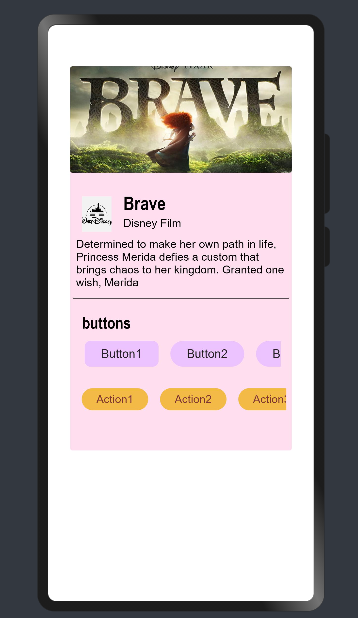
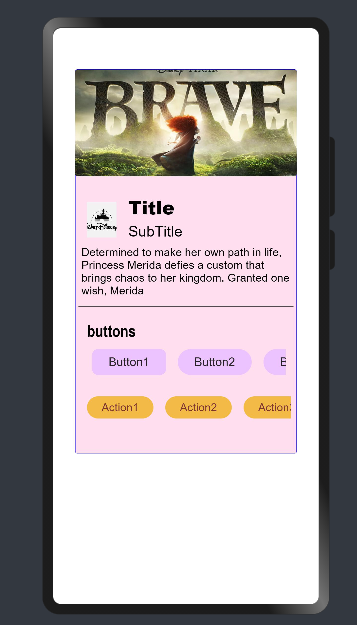
all card examples

diff --git a/README.md b/README.md
@@ -51,6 +51,9 @@ aboutToAppear(){
     this.model.setShadowRadius(40)
     this.model.setBorderRadius(3)
     this.model.setMediaIconPosition(MediaIconPosition.Top)
+    this.model.setSubTitleFontSize(20)
+    this.model.setTitleFontSize(25)
+    this.model.setTitleFontWeight(FontWeight.Bolder)
     this.model.setButtons([new button.Model('Button1',false, '#ff242222', '#ffecc2ff', 15, ButtonType.Normal, 35, 100),
                             new button.Model('Button2',false, '#ff242222', '#ffecc2ff', 15, ButtonType.Capsule, 35, 100),
                             new button.Model('Button3',false, '#ff242222', '#ffecc2ff', 15, ButtonType.Capsule, 35, 100),
@@ -70,7 +73,7 @@ build() {
     }.width('100%')
 }
 ```
-![Filled_Card](screenshots/filledCard.png)
+![filled_card](screenshots/filledCard.png)
 
 Button can be added to the Card in the form an array . Pass the buttons in the form of an array. 
 
